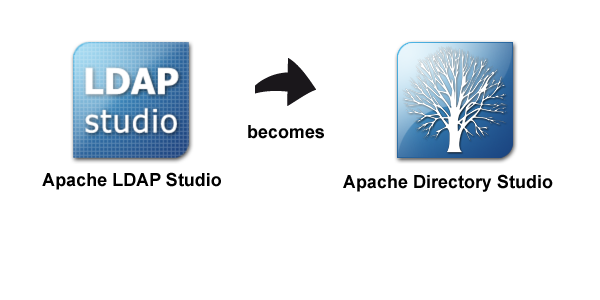
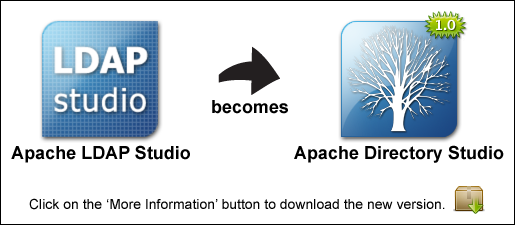
Updated the new version graphic to its final state.
git-svn-id: https://svn.apache.org/repos/asf/directory/studio/branches/0.8.2@571234 13f79535-47bb-0310-9956-ffa450edef68

diff --git a/ldapstudio-new-version/src/main/java/org/apache/directory/ldapstudio/newversion/NewVersionDialog.java b/ldapstudio-new-version/src/main/java/org/apache/directory/ldapstudio/newversion/NewVersionDialog.java
@@ -88,7 +88,7 @@ public class NewVersionDialog extends Dialog
         composite.setLayout( new GridLayout() );
         composite.setLayoutData( new GridData( SWT.FILL, SWT.FILL, true, true ) );
 
-        Label imageLabel = new Label( composite, SWT.CENTER | SWT.BORDER );
+        Label imageLabel = new Label( composite, SWT.CENTER );
         imageLabel.setImage( AbstractUIPlugin.imageDescriptorFromPlugin( Activator.PLUGIN_ID,
             "resources/graphics/new_version.png" ).createImage() );
         imageLabel.setLayoutData( new GridData( SWT.FILL, SWT.FILL, true, true ) );
